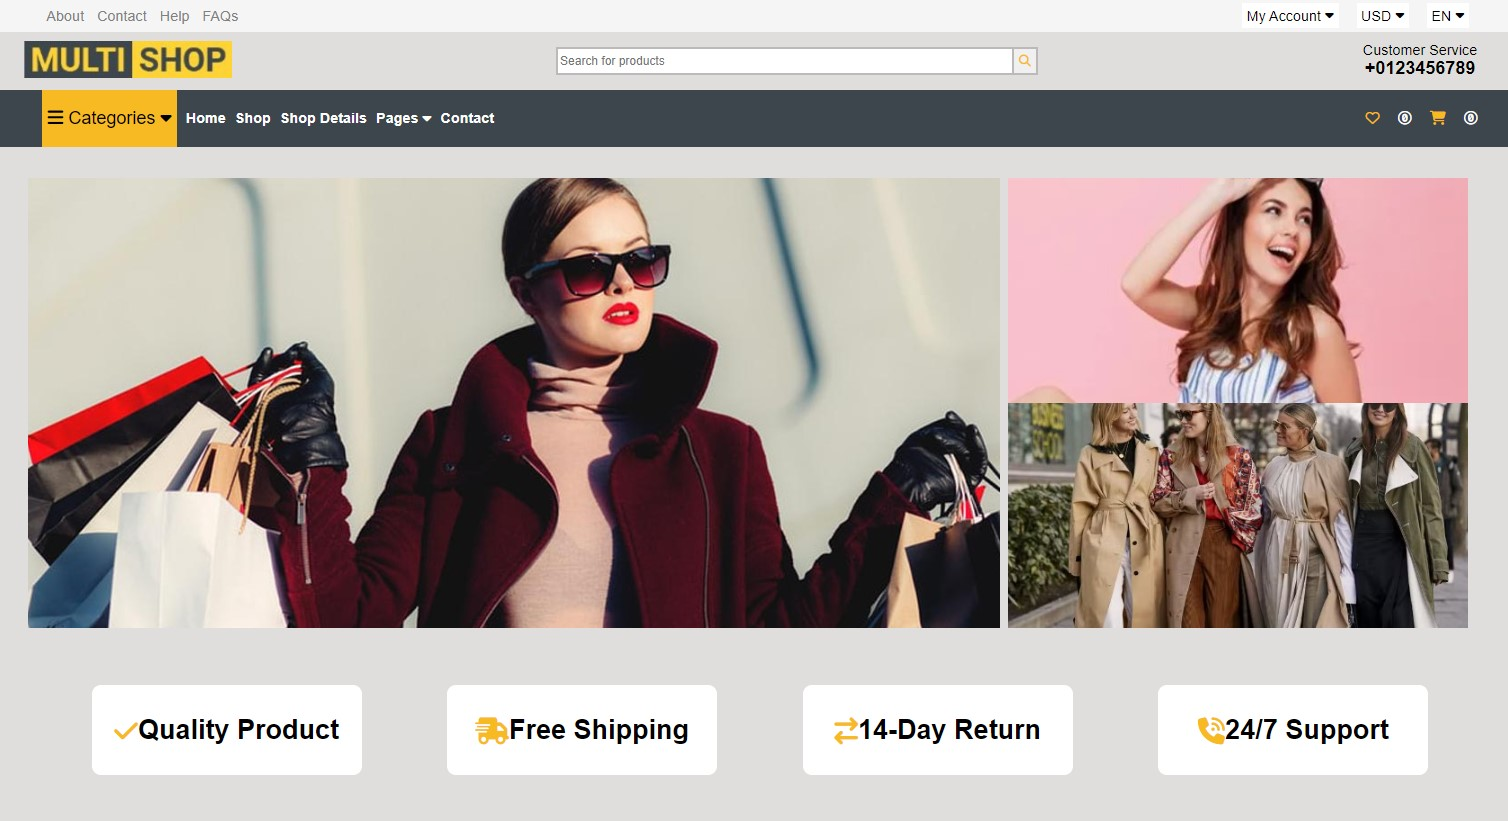
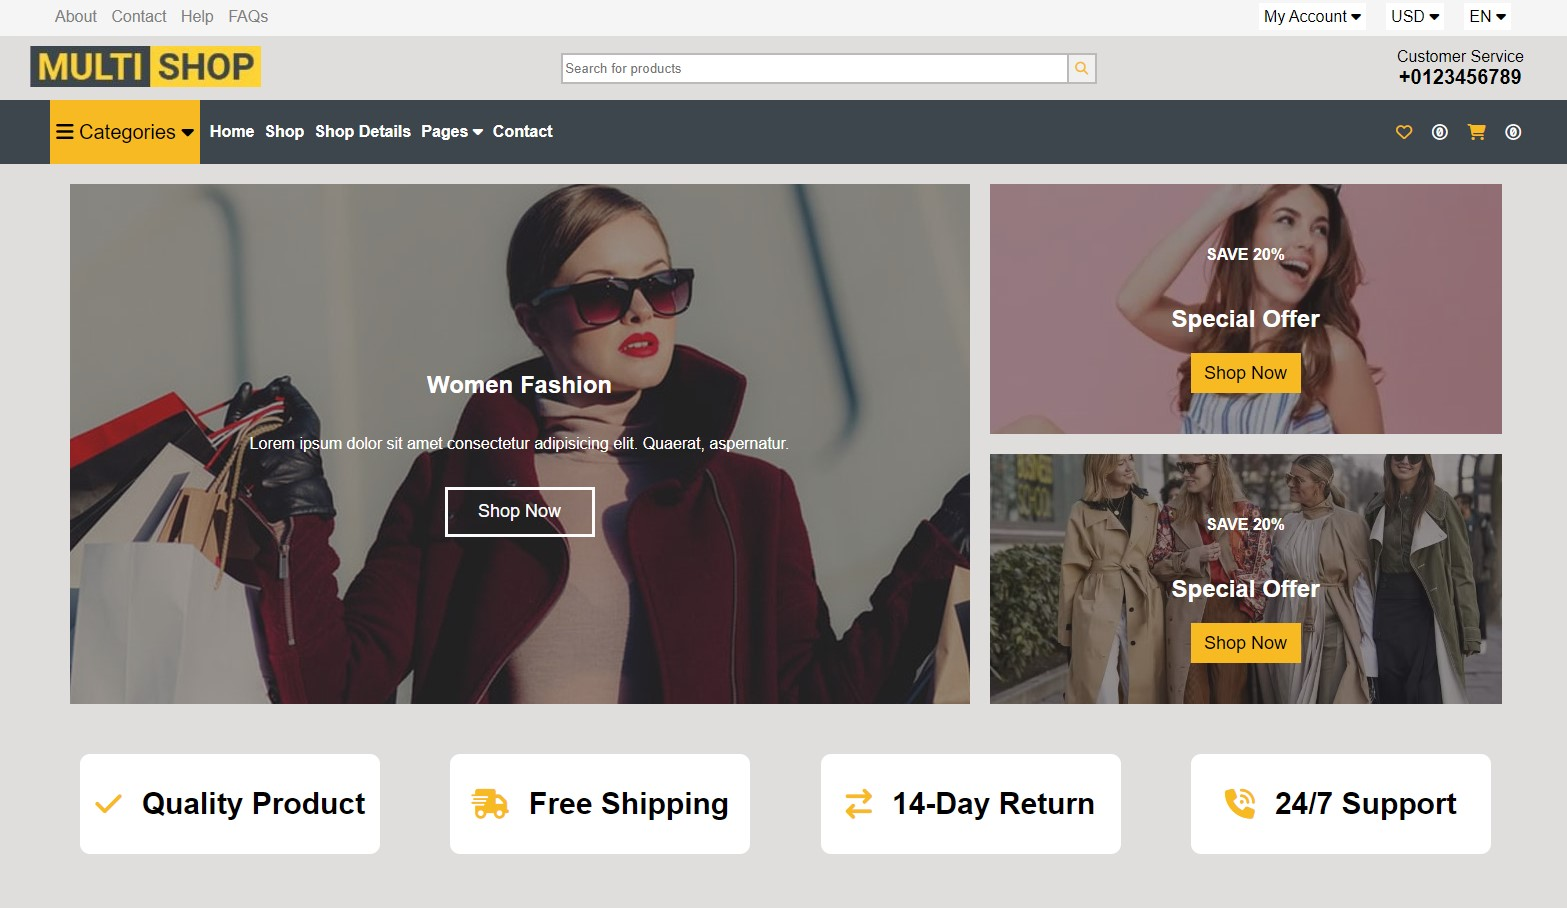
Css02 Update

diff --git a/S_CSS_02 Online shop site header/Style.css b/S_CSS_02 Online shop site header/Style.css
@@ -205,23 +205,70 @@ body {
     padding: 15px;
 }
 
+/* --------------------Responsive-------------- */
+
+@media screen and (max-width: 990px) {
+ 
+  
+}
+
 /* -----------------Body----------------- */
 
 .topSectioncontainer {
     
     display: grid;
     grid-template-columns: auto auto auto auto;
-    padding: 2%;
-    
-
+    margin: 20px;
+    display: flex;
+    justify-content: center;
+    align-items: center;
+    gap: 20px;
 }
 .leftSecContainer {
-    width: 1080px;
-    height: 500px;
+    width: 900px;
+    height: 520px;
     background-color: blueviolet;
     background-image: url(./Images/Women_fashion.jpg);
     background-repeat: no-repeat;
     background-position: center ;
+}
+
+.alphapic{
+    width: 100%;
+    background-color: rgb(49, 48, 50, 0.5);
+    height: 100%;
+    display: flex;
+    justify-content: center;
+    flex-direction: column;
+    align-items: center;
+    text-align: center;
+    color: rgb(255, 255, 255);
+}
+.leftSecContainer .alphapic .leftSecionbtn{
+    color: rgb(252, 252, 252);
+    background-color: transparent;
+    width: 150px;
+    height: 50px;
+    border: solid;
+    cursor: pointer;
+    font-size: 18px;
+}
+.rightTopSecionbtn{
+    background-color: rgb(247, 186, 34);
+    width: 110px;
+    height: 40px;
+    border: none;
+    cursor: pointer;
+    font-size: 18px;
+
+}
+.rightBottomSecionbtn{
+    background-color: rgb(247, 186, 34);
+    width: 110px;
+    height: 40px;
+    border: none;
+    cursor: pointer;
+    font-size: 18px;
 
 }
 .rightSecContainer{
@@ -234,13 +281,20 @@ body {
     background-color: blueviolet;
     background-repeat: no-repeat;
     background-position: center ;
+    margin-bottom: 20px;
+    display: flex;
+    justify-content: center;
+    flex-direction: column;
+    align-items: center;
+    text-align: center;
+    
     
 }
 .rightSecBottom {
     width: 512px;
     height: 250px;
     background-image: url(./Images/Bottom_Sec.jpg);
-    
+    margin-top: 10px;
     background-color: rgb(43, 226, 171);
     background-repeat: no-repeat;
     background-position: center ;
@@ -265,6 +319,10 @@ body {
     font-weight: bold;
     cursor: pointer;
     border-radius: 10px;
+    gap: 20px;
+}
+.topSectioncontainer div {
+    
 }
 .btmStyle i{
     color: rgb(247, 186, 34);

diff --git a/S_CSS_02 Online shop site header/S_CSS_02 Online shop site header.htm b/S_CSS_02 Online shop site header/S_CSS_02 Online shop site header.htm
@@ -118,7 +118,7 @@
                     <div class="pageDropListContent">
                         <a href="#">- Page A</a>
                         <a href="#">- Page B</a>
-                        <a href="#">- Page C</a>
+                        <a href="#">- Page C </a>
                     </div>
                 </div>
                 <a href="contact.test">Contact</a>
@@ -134,15 +134,30 @@
         <div class="topSectioncontainer">
 
             <div class="leftSecContainer">
+                <div class="alphapic">
 
+                    <h1>Women Fashion</h1>
+                    <p>Lorem ipsum dolor sit amet consectetur adipisicing elit. Quaerat, aspernatur.</p><br>
+
+                    <button class="leftSecionbtn">Shop Now</button>
+                </div>
             </div>
 
             <div class="rightSecContainer">
-                <div class="rightSecTop"> 
-
+                <div class="rightSecTop">
+                    <div class="alphapic">
+                        <h4>SAVE 20%</h4>
+                        <h2>Special Offer</h2>
+                        <button class="rightTopSecionbtn">Shop Now</button>
+                    </div>
                 </div>
-                <div class="rightSecBottom"> 
+                <div class="rightSecBottom">
+                    <div class="alphapic">
+                        <h4>SAVE 20%</h4>
+                        <h2>Special Offer</h2>
 
+                        <button class="rightBottomSecionbtn">Shop Now</button>
+                    </div>
                 </div>
 
 
@@ -155,7 +170,7 @@
 
             <div class="qualityContainer btmStyle">
 
-                <i class="fa-solid fa-check"></i> Quality Product
+                <i class="fa-solid fa-check"></i>  Quality Product
 
             </div>
             <div class="shippingContainer btmStyle">
